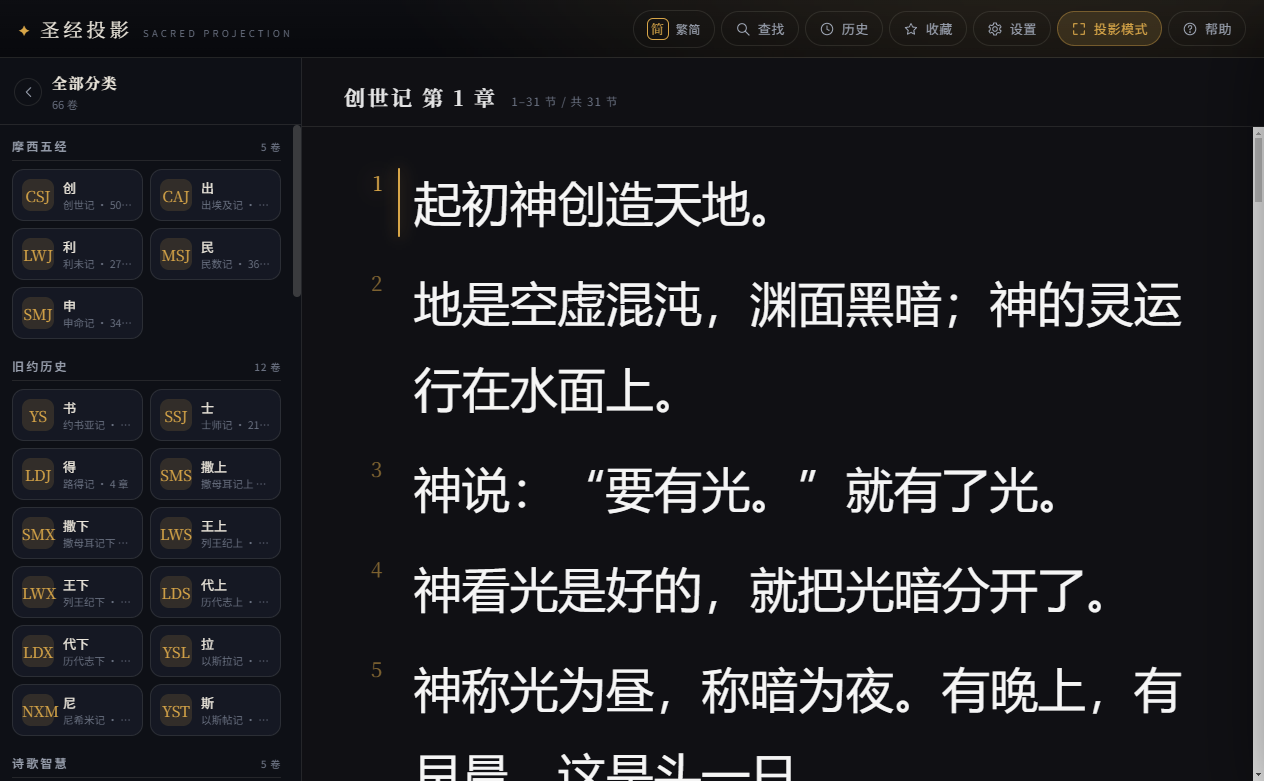
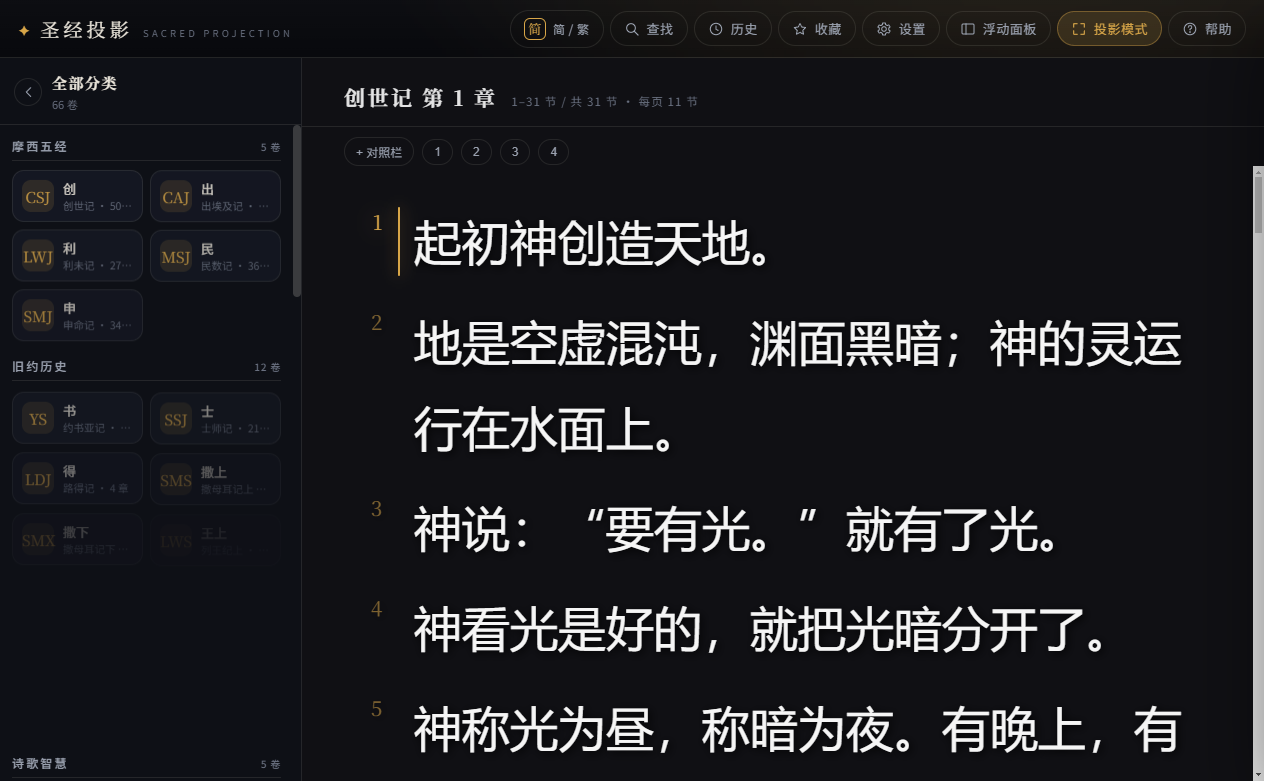
docs: 更新界面截图（主界面/投影模式/设置面板），补充设置面板截图引用

diff --git a/docs/images/README.md b/docs/images/README.md
@@ -2,19 +2,21 @@
 
 本目录存放 README 与文档引用的界面截图。
 
-**当前已有 2 张真实截图**，均由 Electron 的 `webContents.capturePage()` 在实际运行的窗口中抓取，
-不是示意图或渲染稿。
+**当前已有 3 张真实截图**，均由 Electron 运行时抓取（`webContents.capturePage()`）或 CDP `Page.captureScreenshot`
+在实际运行的窗口中取得，不是示意图或渲染稿。
 
 | 文件 | 尺寸 | 内容 |
 | --- | --- | --- |
 | `main-window.png` | 1264 × 781 | 主界面：顶栏工具、左侧 8 大类 66 卷书目、右侧大字号经文显示区（创世记第 1 章） |
 | `projection-mode.png` | 1920 × 1080 | 投影模式：整屏单节居中、右上角绘制工具栏、右下角快捷键提示条 |
+| `settings-panel.png` | 1264 × 781 | 设置面板：字体/字号/行距/颜色/背景图/背景音乐/阴影/标题字体与标题颜色/节号颜色/四边缩进等 |
 
 引用方式（相对仓库根目录）：
 
 ```markdown
 ![主界面](docs/images/main-window.png)
 ![投影模式](docs/images/projection-mode.png)
+![设置面板](docs/images/settings-panel.png)
 ```
 
 ## 约定与后续补充
@@ -24,9 +26,9 @@
 | 用途 | 建议文件名 | 说明 |
 | --- | --- | --- |
 | 查找结果 | `search.png` | 多关键字查找与结果列表 |
-| 显示设置 | `settings.png` | 字体 / 字号 / 颜色 / 背景设置面板 |
 | 简繁切换 | `traditional.png` | 繁体对照效果 |
 | 历史与收藏 | `history.png` | 历史记录与收藏夹面板 |
+| 浮动控制面板 | `float-panel.png` | 悬浮控制面板与新约/旧约目录 |
 
 > 提示：仓库根目录的 `.gitignore` 已忽略 `shots/` 与 `tmp/`，临时截图请先放在那里，
 > 确认后再复制到本目录。

diff --git a/README.en.md b/README.en.md
@@ -31,6 +31,12 @@ at the top right and a shortcut hint bar at the bottom right.
 
 ![Projection mode](docs/images/projection-mode.png)
 
+Settings panel: font / size / line height / text and background colour / background image and background music /
+text shadow / title font and title colour / verse-number colour / padding / verses per page / simplified–traditional /
+floating panel, and more.
+
+![Settings panel](docs/images/settings-panel.png)
+
 ## Why rewrite
 
 The original 5.20-SP2 "no-speech" build has a fatal defect in its natively-compiled VB6 runtime:

diff --git a/README.md b/README.md
@@ -29,6 +29,10 @@
 
 ![投影模式](docs/images/projection-mode.png)
 
+设置面板：字体 / 字号 / 行距 / 文字与背景色 / 背景图与背景音乐 / 文字阴影 / 标题字体与标题颜色 / 节号颜色 / 四边缩进 / 每页节数 / 繁简 / 浮动面板等。
+
+![设置面板](docs/images/settings-panel.png)
+
 ## 为什么重写
 
 原程序《语音投影圣经》5.20-SP2 无声版在 **VB6 原生编译**环境下存在一个致命缺陷：
